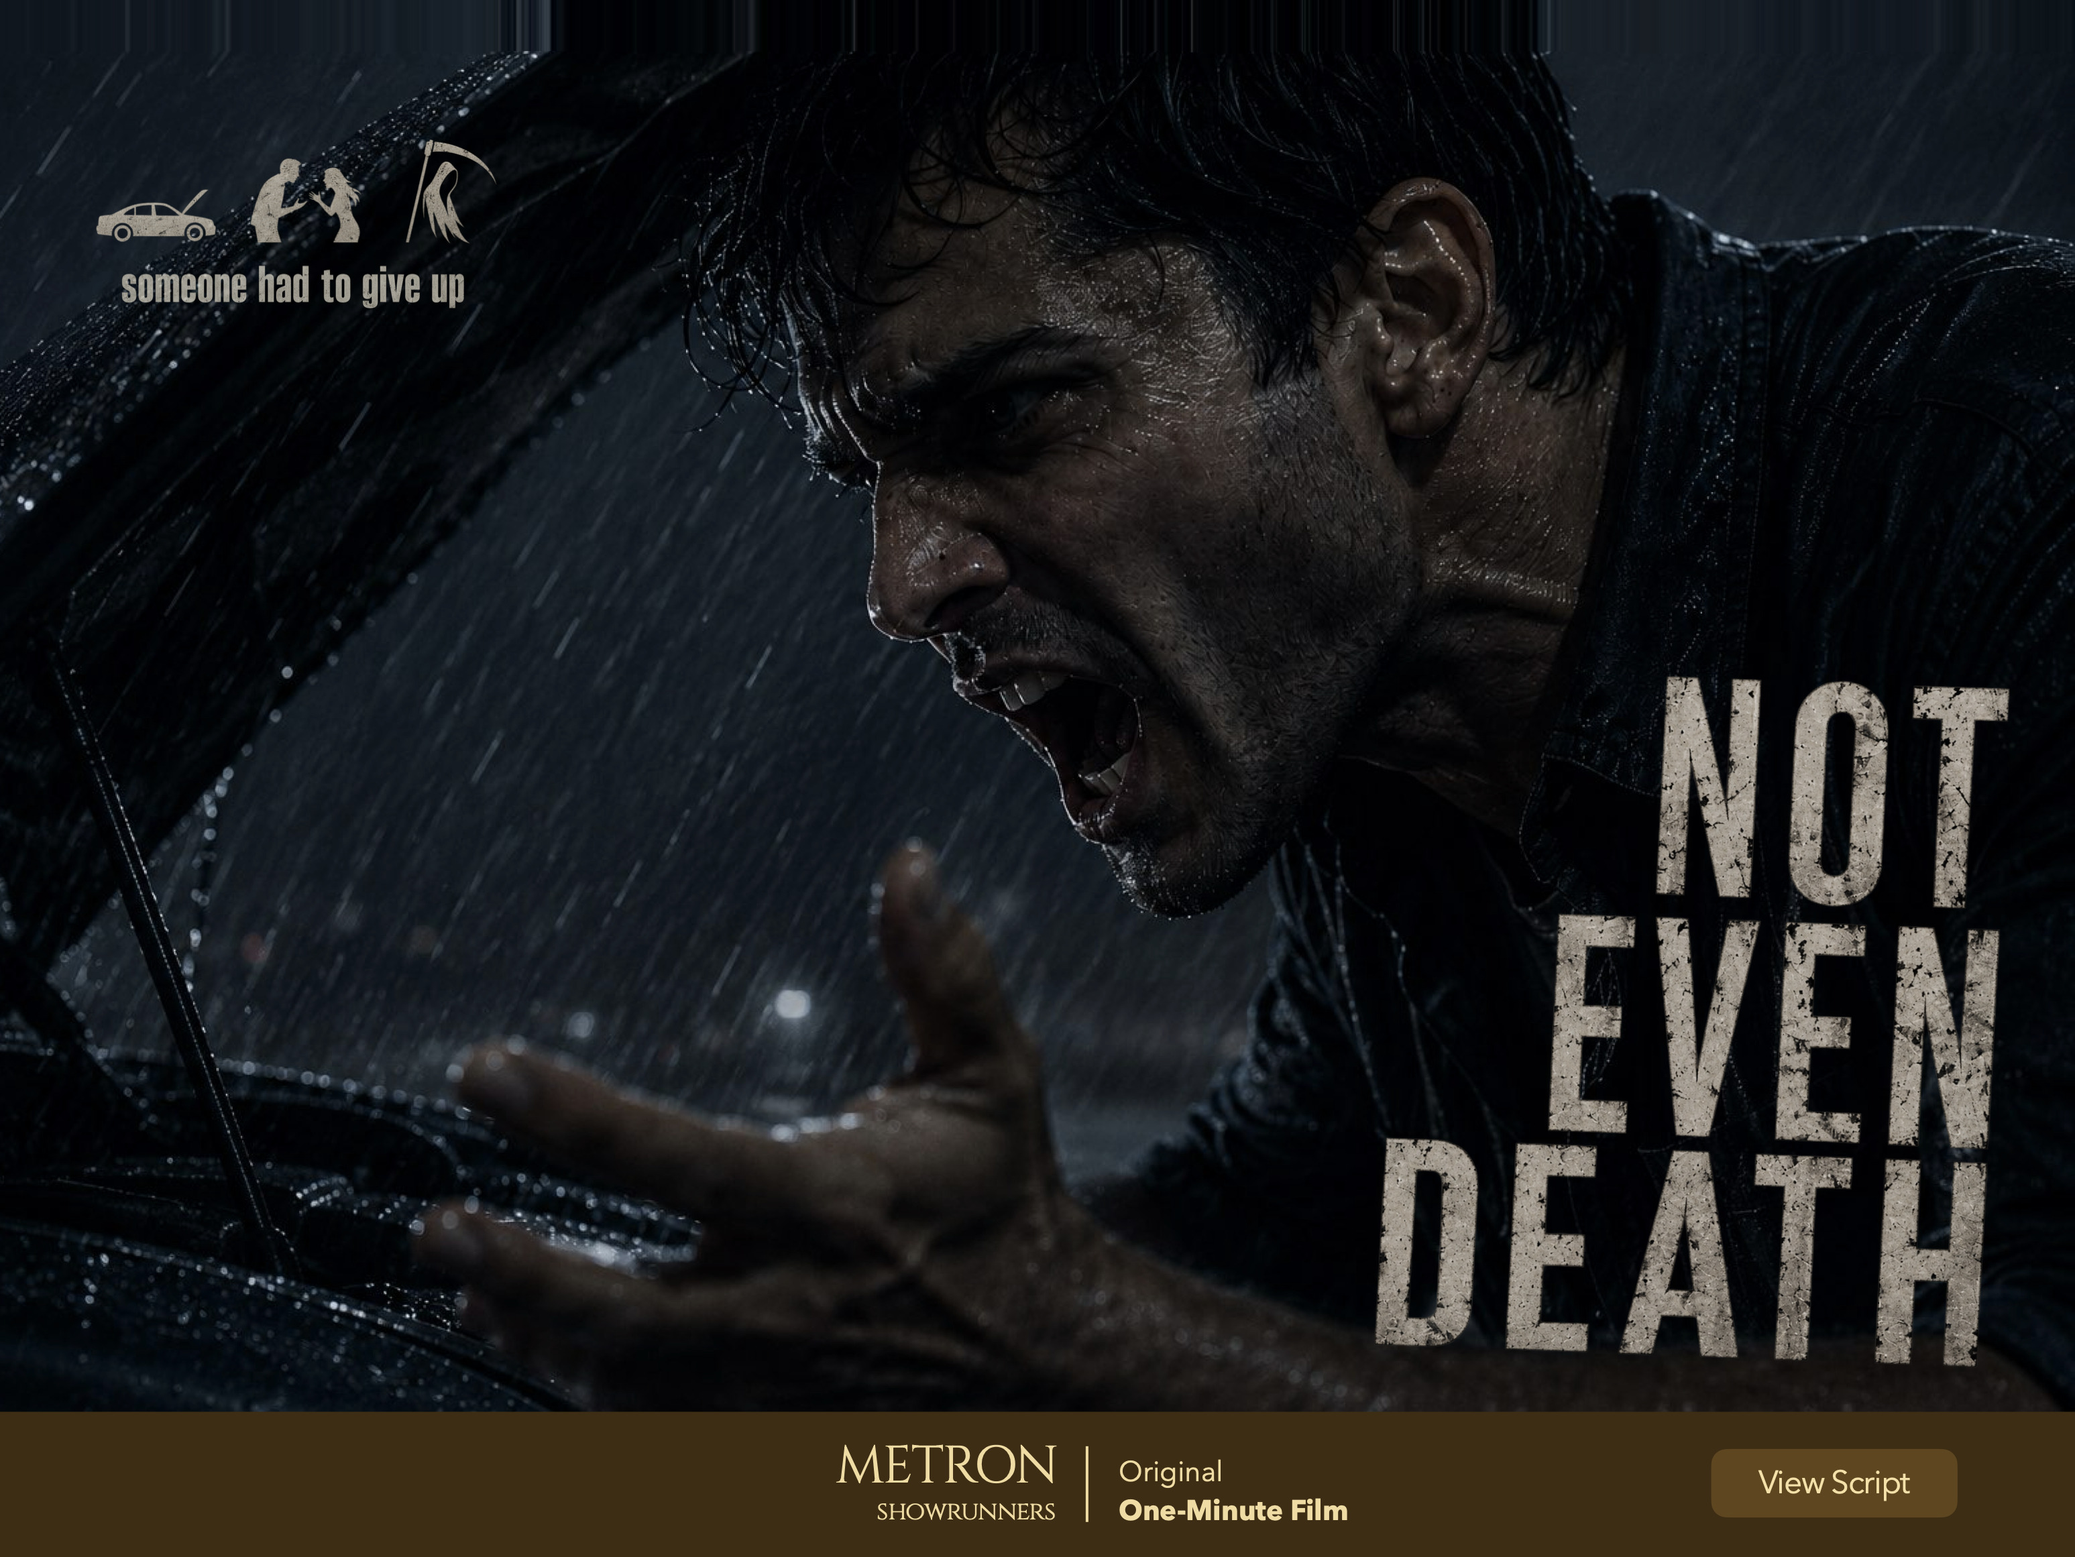
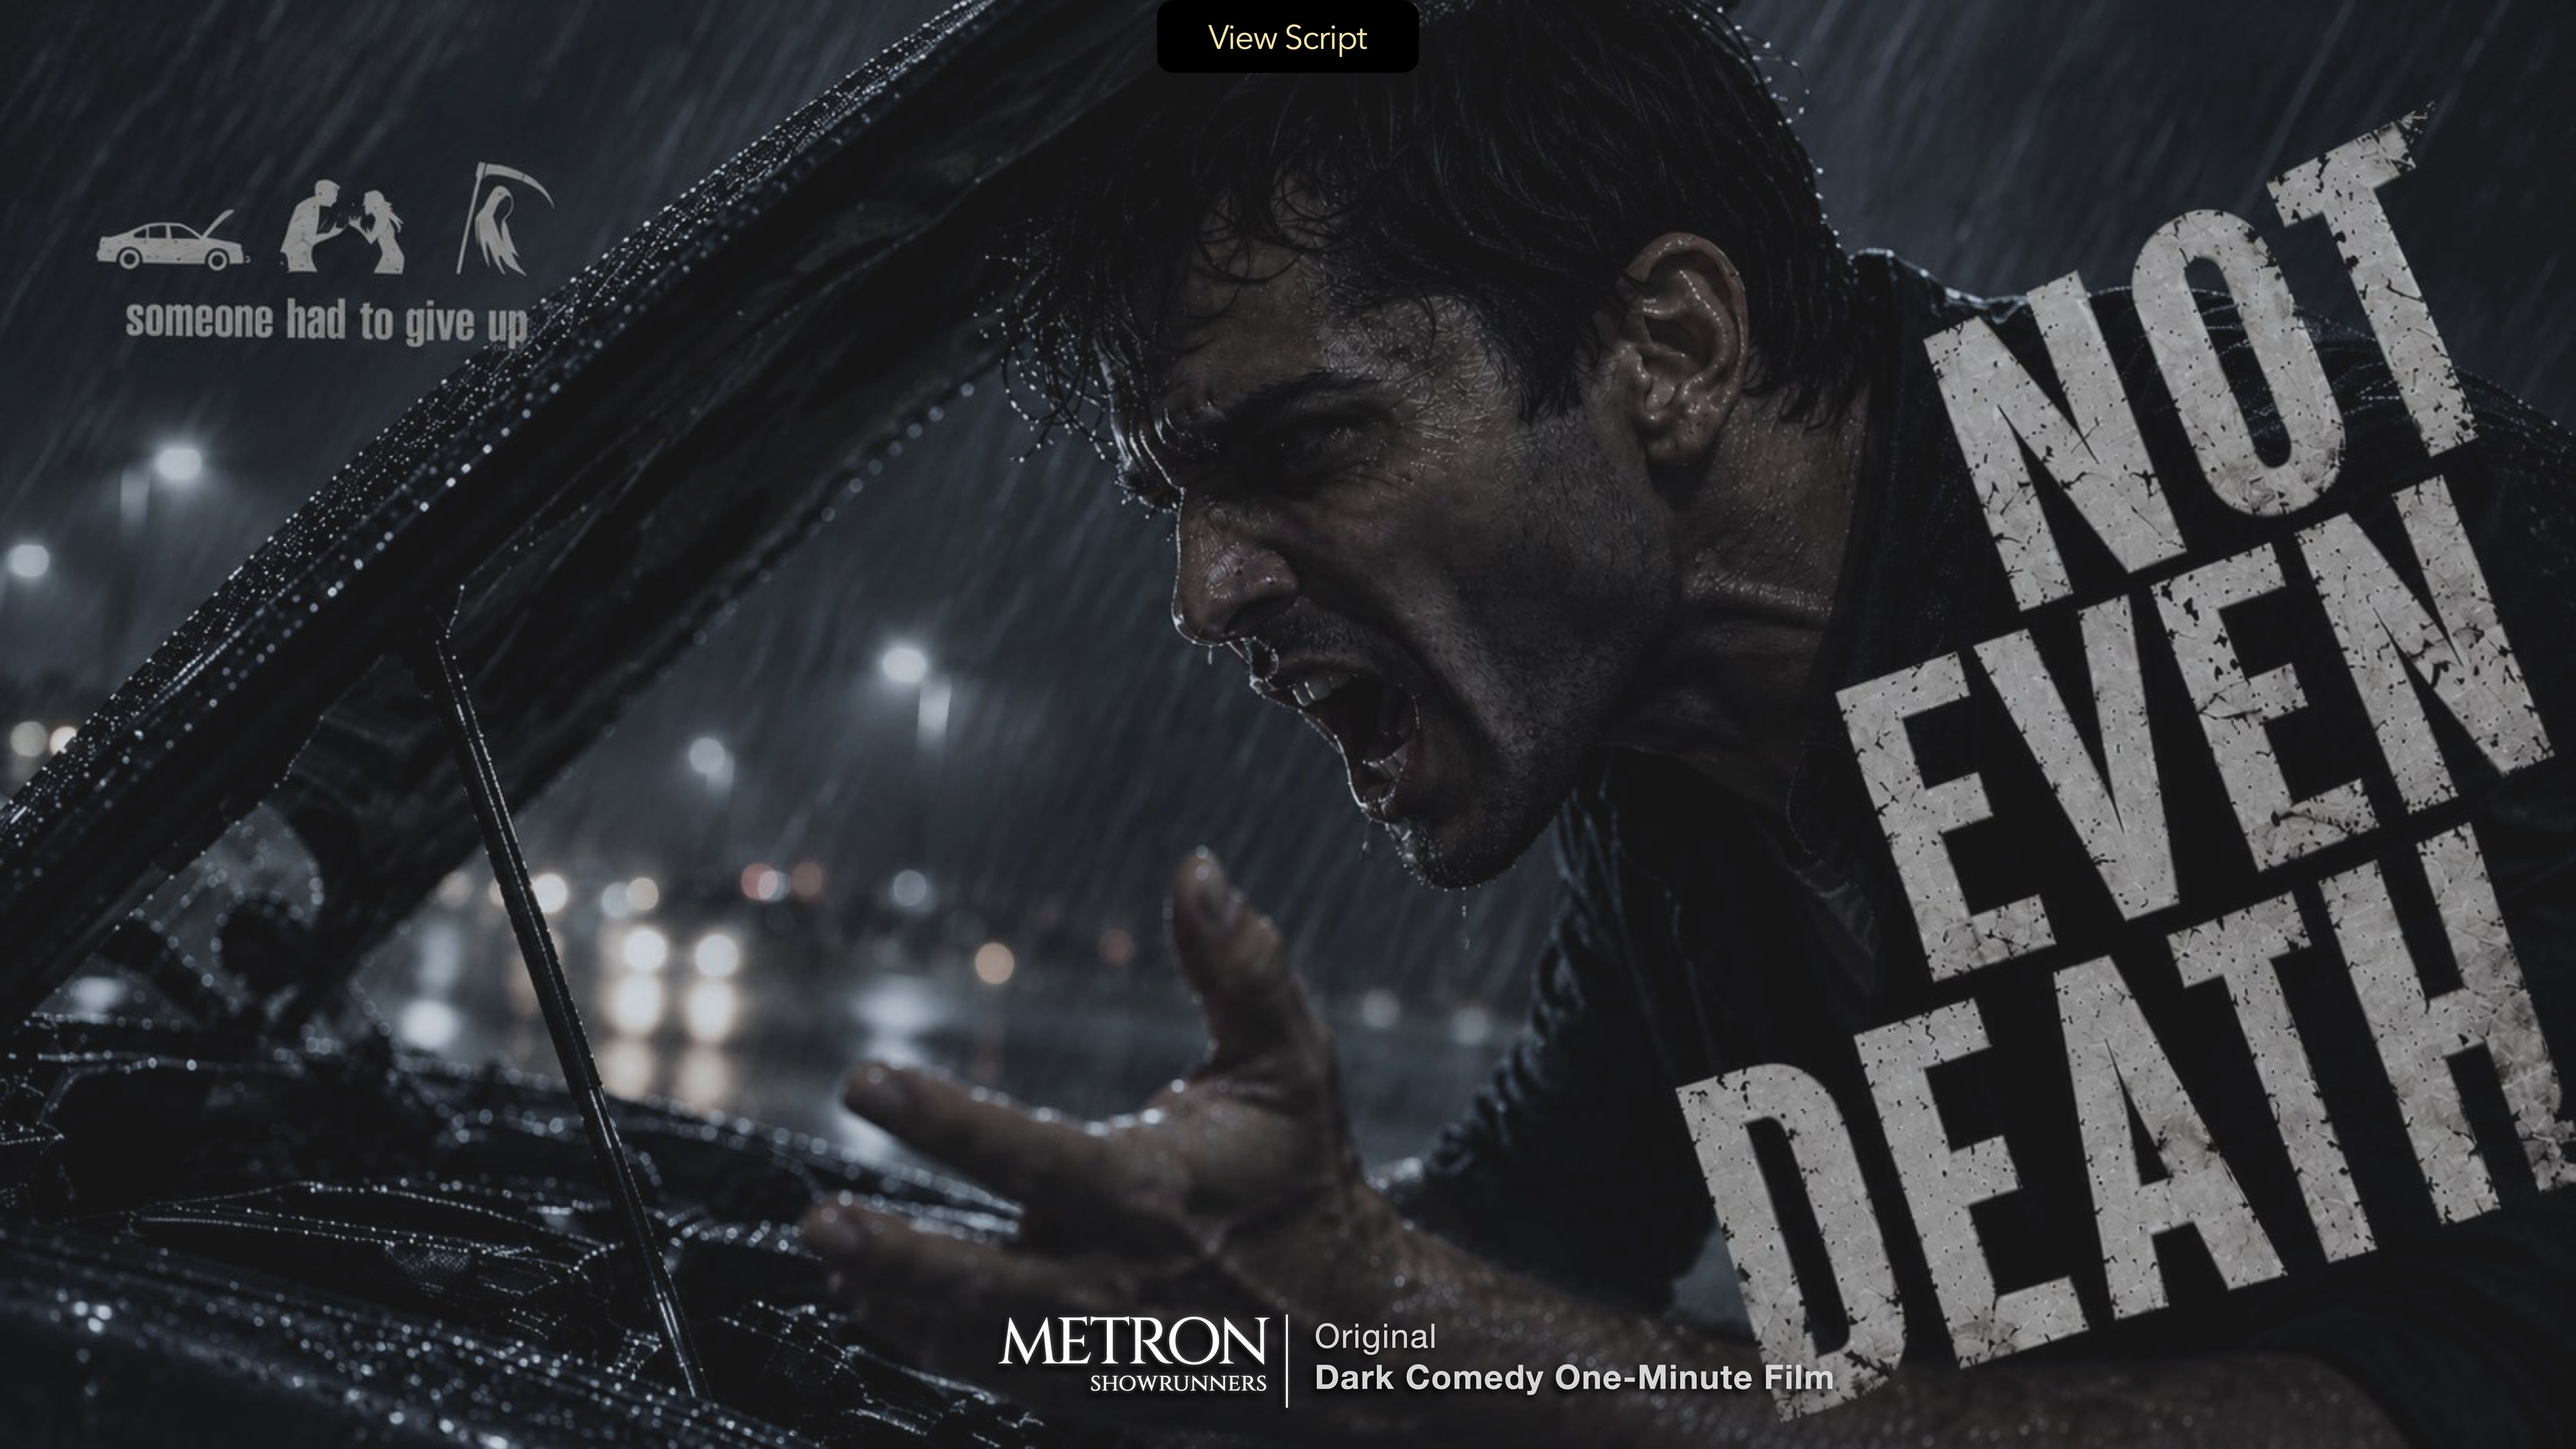
novas imagens e botao

diff --git a/tests/seed.spec.ts b/tests/seed.spec.ts
@@ -36,20 +36,28 @@ test('a suíte está rodando contra o preview, não contra o dev', async ({
    O Not Even Death tem a sua própria medida: a arte dele é outra (1313x2329),
    e a barra começa em 2198, ou seja 94.38%. Até 2026-09-13 ele não estava
    nesta lista, porque o destino não existia e havia no lugar uma pastilha
-   "Coming Soon". */
+   "Coming Soon".
+
+   Isto tudo vale só pra arte portrait (a suíte roda em perfis de iPhone —
+   ver comentário no topo do arquivo). Em 2026-09-18 a arte landscape virou
+   16:9 com o botão desenhado no topo em vez da barra no rodapé, mas a
+   portrait ainda é a antiga até a versão 16:9 dela chegar; por isso os
+   índices abaixo (dot/slide) já refletem a nova ordem do carrossel — Laya,
+   Inter/Sessions, Hybris, Mrs. Steele, Not Even Death, Cell Phone — mas as
+   % de rodapé continuam as mesmas. */
 const SLIDES_COM_LINK = [
   {
     nome: 'Hybris',
-    dot: 0,
-    slide: 0,
+    dot: 2,
+    slide: 2,
     href: 'https://files.hybris.world/',
     aria: /Hybris Project/,
     footerTopPct: 95.02,
   },
   {
     nome: 'Laya',
-    dot: 1,
-    slide: 1,
+    dot: 0,
+    slide: 0,
     href: 'https://youtu.be/bXL5xmmQPys',
     aria: /Laya teaser/,
     // A arte da Laya tem a barra em 94.51%, nao nos 95.02% da do Hybris.
@@ -65,7 +73,7 @@ const SLIDES_COM_LINK = [
   },
 ];
 
-test('a key art da Hybris (slide inicial) carrega de fato', async ({ page }) => {
+test('a key art da Laya (slide inicial) carrega de fato', async ({ page }) => {
   await page.goto('/');
   const img = page.locator('.slide.is-active .keyart-img');
   await expect(img).toBeVisible();
@@ -109,21 +117,21 @@ for (const ip of SLIDES_COM_LINK) {
   });
 }
 
-test('o dot da Laya troca o slide e esconde o link da Hybris', async ({
+test('o dot da Hybris troca o slide e esconde o link da Laya', async ({
   page,
 }) => {
   await page.goto('/');
 
-  await page.locator('[data-dot="1"]').click();
+  await page.locator('[data-dot="2"]').click();
 
-  const layaSlide = page.locator('[data-slide="1"]');
-  await expect(layaSlide).toHaveClass(/is-active/);
-  await expect(layaSlide.locator('.keyart-img')).toHaveAttribute(
+  const hybrisSlide = page.locator('[data-slide="2"]');
+  await expect(hybrisSlide).toHaveClass(/is-active/);
+  await expect(hybrisSlide.locator('.keyart-img')).toHaveAttribute(
     'alt',
-    /Laya/
+    /Hybris/
   );
 
-  // O link da Hybris, agora escondido, não pode ficar clicável.
+  // O link da Laya, agora escondido, não pode ficar clicável.
   await expect(page.locator('[data-slide="0"] .footer-link')).not.toBeVisible();
 });
 
@@ -131,9 +139,9 @@ test('clicar na barra da Laya abre o teaser em vez de navegar', async ({
   page,
 }) => {
   await page.goto('/');
-  await page.locator('[data-dot="1"]').click();
+  await page.locator('[data-dot="0"]').click();
 
-  await page.locator('[data-slide="1"] .footer-link').click();
+  await page.locator('[data-slide="0"] .footer-link').click();
 
   await expect(page.locator('.glightbox-container')).toBeVisible();
   await expect(page).toHaveURL('/');
